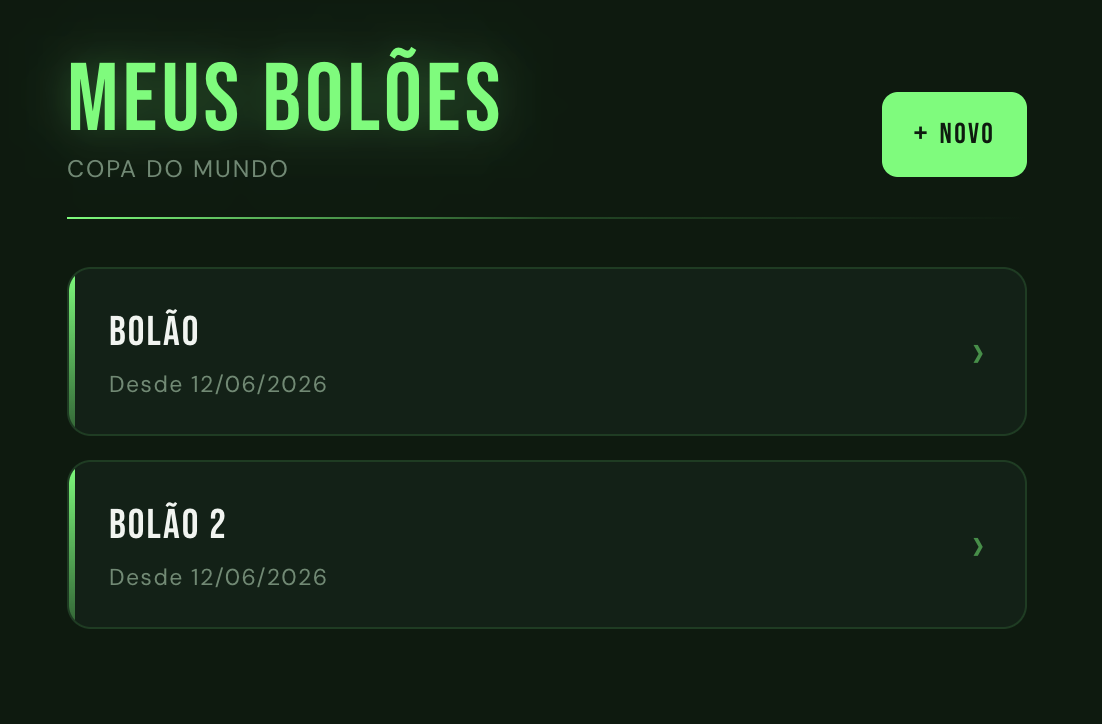
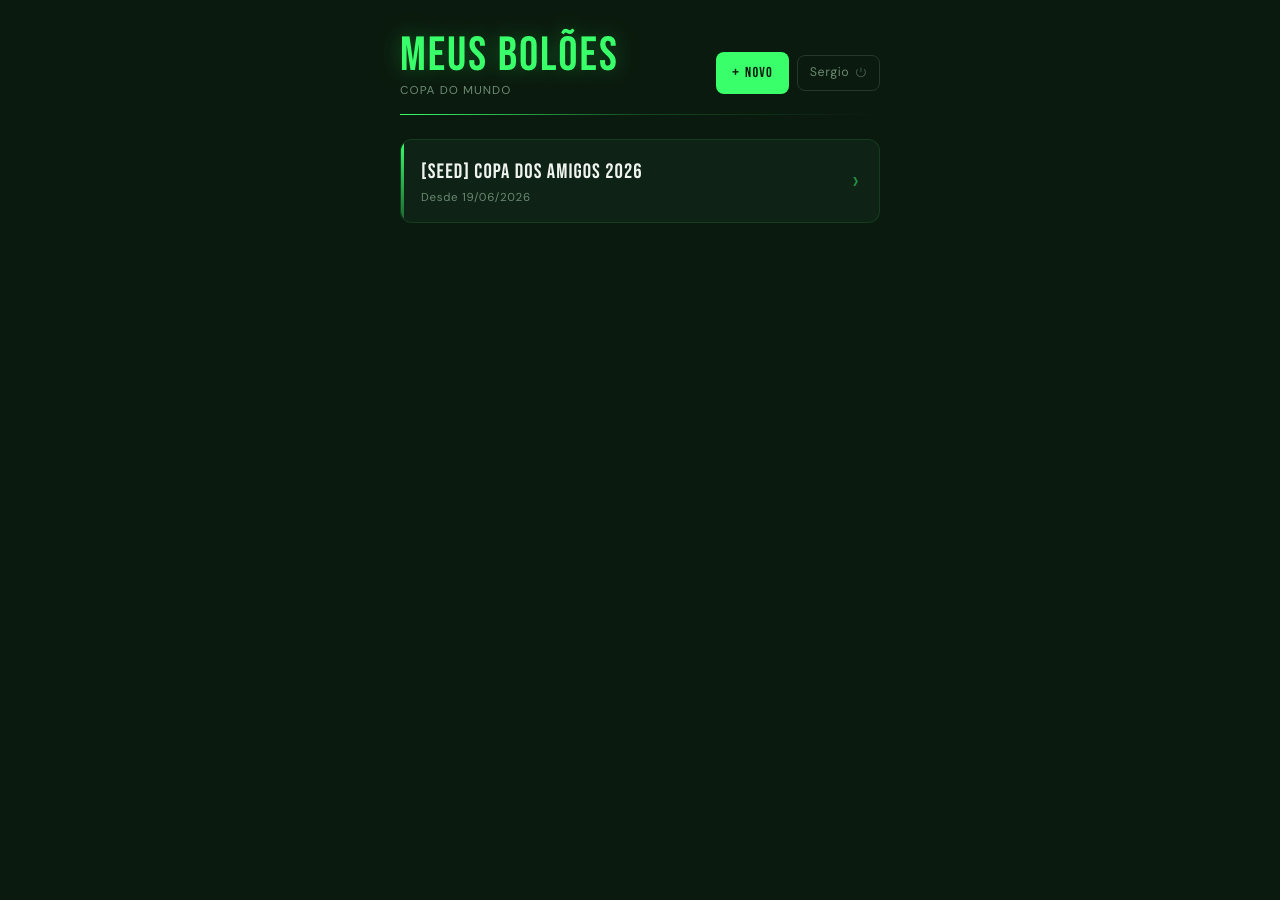
docs: overhaul README with full feature list, mermaid diagram, screenshots and seed script

diff --git a/README.md b/README.md
@@ -13,11 +13,26 @@ Bolão de palpites para a Copa do Mundo. Crie um grupo, compartilhe o link de co
 ### Lista de bolões
 ![Lista de bolões](docs/assets/boloes.png)
 
-### Jogos e palpites
+### Jogos e palpites (com banner ao vivo)
 ![Jogos](docs/assets/jogos.png)
+
+### Ranking
+![Ranking](docs/assets/ranking.png)
 
 ### Feed de atividade
 ![Feed](docs/assets/feed.png)
+
+### Painel admin — taxa, retroativos e WhatsApp
+![Admin](docs/assets/admin.png)
+
+### Palpite retroativo aguardando aprovação
+![Palpite retroativo](docs/assets/palpite-retroativo.png)
+
+### Notificações WhatsApp
+![WhatsApp config](docs/assets/whatsapp-config.png)
+
+### Excluir bolão
+![Excluir bolão](docs/assets/excluir-bolao.png)
 
 ### Como funciona
 ![Como funciona — pontuação e prazo](docs/assets/como-funciona-1.png)
@@ -33,17 +48,56 @@ Bolão de palpites para a Copa do Mundo. Crie um grupo, compartilhe o link de co
 
 **Infra** — PostgreSQL 16 · Docker Compose · Nginx · Cloudflare Tunnel
 
+**WhatsApp** — whatsmeow (serviço standalone chamado pelo backend)
+
+---
+
+## Arquitetura
+
+```mermaid
+graph TD
+    subgraph Frontend
+        VUE[Vue 3 + Pinia]
+    end
+
+    subgraph Backend
+        CHI[Chi Router]
+        SVC[Services]
+        SQLC[sqlc / pgx]
+        CRON[Cron — sync jogos + disparo notificações]
+    end
+
+    subgraph Infra
+        PG[(PostgreSQL 16)]
+        WA[whatsmeow service]
+        FD[football-data.org API]
+    end
+
+    VUE -- HTTP / JWT --> CHI
+    CHI --> SVC
+    SVC --> SQLC
+    SQLC --> PG
+    CRON --> FD
+    CRON --> WA
+    WA -- WhatsApp --> GRP[Grupo WhatsApp]
+```
+
 ---
 
 ## Funcionalidades
 
-- **Bolões** — crie quantos quiser, cada um com link de convite único
+- **Bolões** — crie quantos quiser, cada um com link de convite único; o criador é o Administrador
+- **Auth** — Google OAuth ou e-mail/senha
 - **Palpites** — registre e altere até o apito inicial; bloqueio automático por horário (UTC)
-- **Ranking** — classificação em tempo real com pontuação acumulada
+- **Palpite Retroativo** — quando habilitado pelo Administrador, permite registrar palpites após o início do Jogo; ficam pendentes até aprovação explícita do Admin e ocultos dos demais Participantes até lá
+- **Ranking** — classificação em tempo real com pontuação acumulada por Bolão
 - **Feed** — últimos 50 eventos do bolão com polling de 15s; palpites ficam ocultos até o jogo começar
 - **Palpites dos outros** — expanda qualquer jogo já iniciado para ver o que cada participante apostou
+- **Jogos ao vivo** — banner fixo no topo da aba Jogos; filtros separados para Próximos e Encerrados
+- **Taxa de Entrada** — Administrador propõe um valor; exige aprovação unânime dos Participantes presentes; imutável após definida; sistema não processa pagamentos
+- **Excluir bolão** — Administrador pode excluir o bolão com confirmação via drawer
+- **Notificações WhatsApp** — vincula um Grupo WhatsApp ao Bolão; três tipos de notificação automática: aviso 10 min antes, partida iniciando, e fim de jogo com pontuações; Administrador pode pausar/retomar
 - **Sincronização de jogos** — partidas importadas da [football-data.org](https://www.football-data.org/) via cron
-- **Auth** — Google OAuth ou e-mail/senha
 
 ---
 

diff --git a/CONTEXT.md b/CONTEXT.md
@@ -7,7 +7,10 @@ Um grupo de apostas criado por um Administrador, compartilhado via link de convi
 O Participante que criou o Bolão. Tem poderes exclusivos: gerar o link de convite e configurar as Regras de Pontuação. Existe exatamente um Administrador por Bolão.
 
 ## Participante
-Qualquer usuário autenticado (via Google OAuth) que entrou no Bolão através do link de convite. Pode registrar e alterar Palpites até o início de cada Jogo.
+Qualquer usuário autenticado que entrou no Bolão através do link de convite. A autenticação pode ser via Google OAuth ou Usuário com Senha. Pode registrar e alterar Palpites até o início de cada Jogo.
+
+## Usuário com Senha
+Método de autenticação onde o usuário cria uma conta diretamente no sistema com e-mail e senha, sem depender de um provedor externo como o Google OAuth.
 
 ## Jogo
 Uma partida da Copa do Mundo, com dois times, horário de início e placar final. Os dados de Jogos são sincronizados automaticamente de uma API externa. O horário de início define o prazo para Palpites.